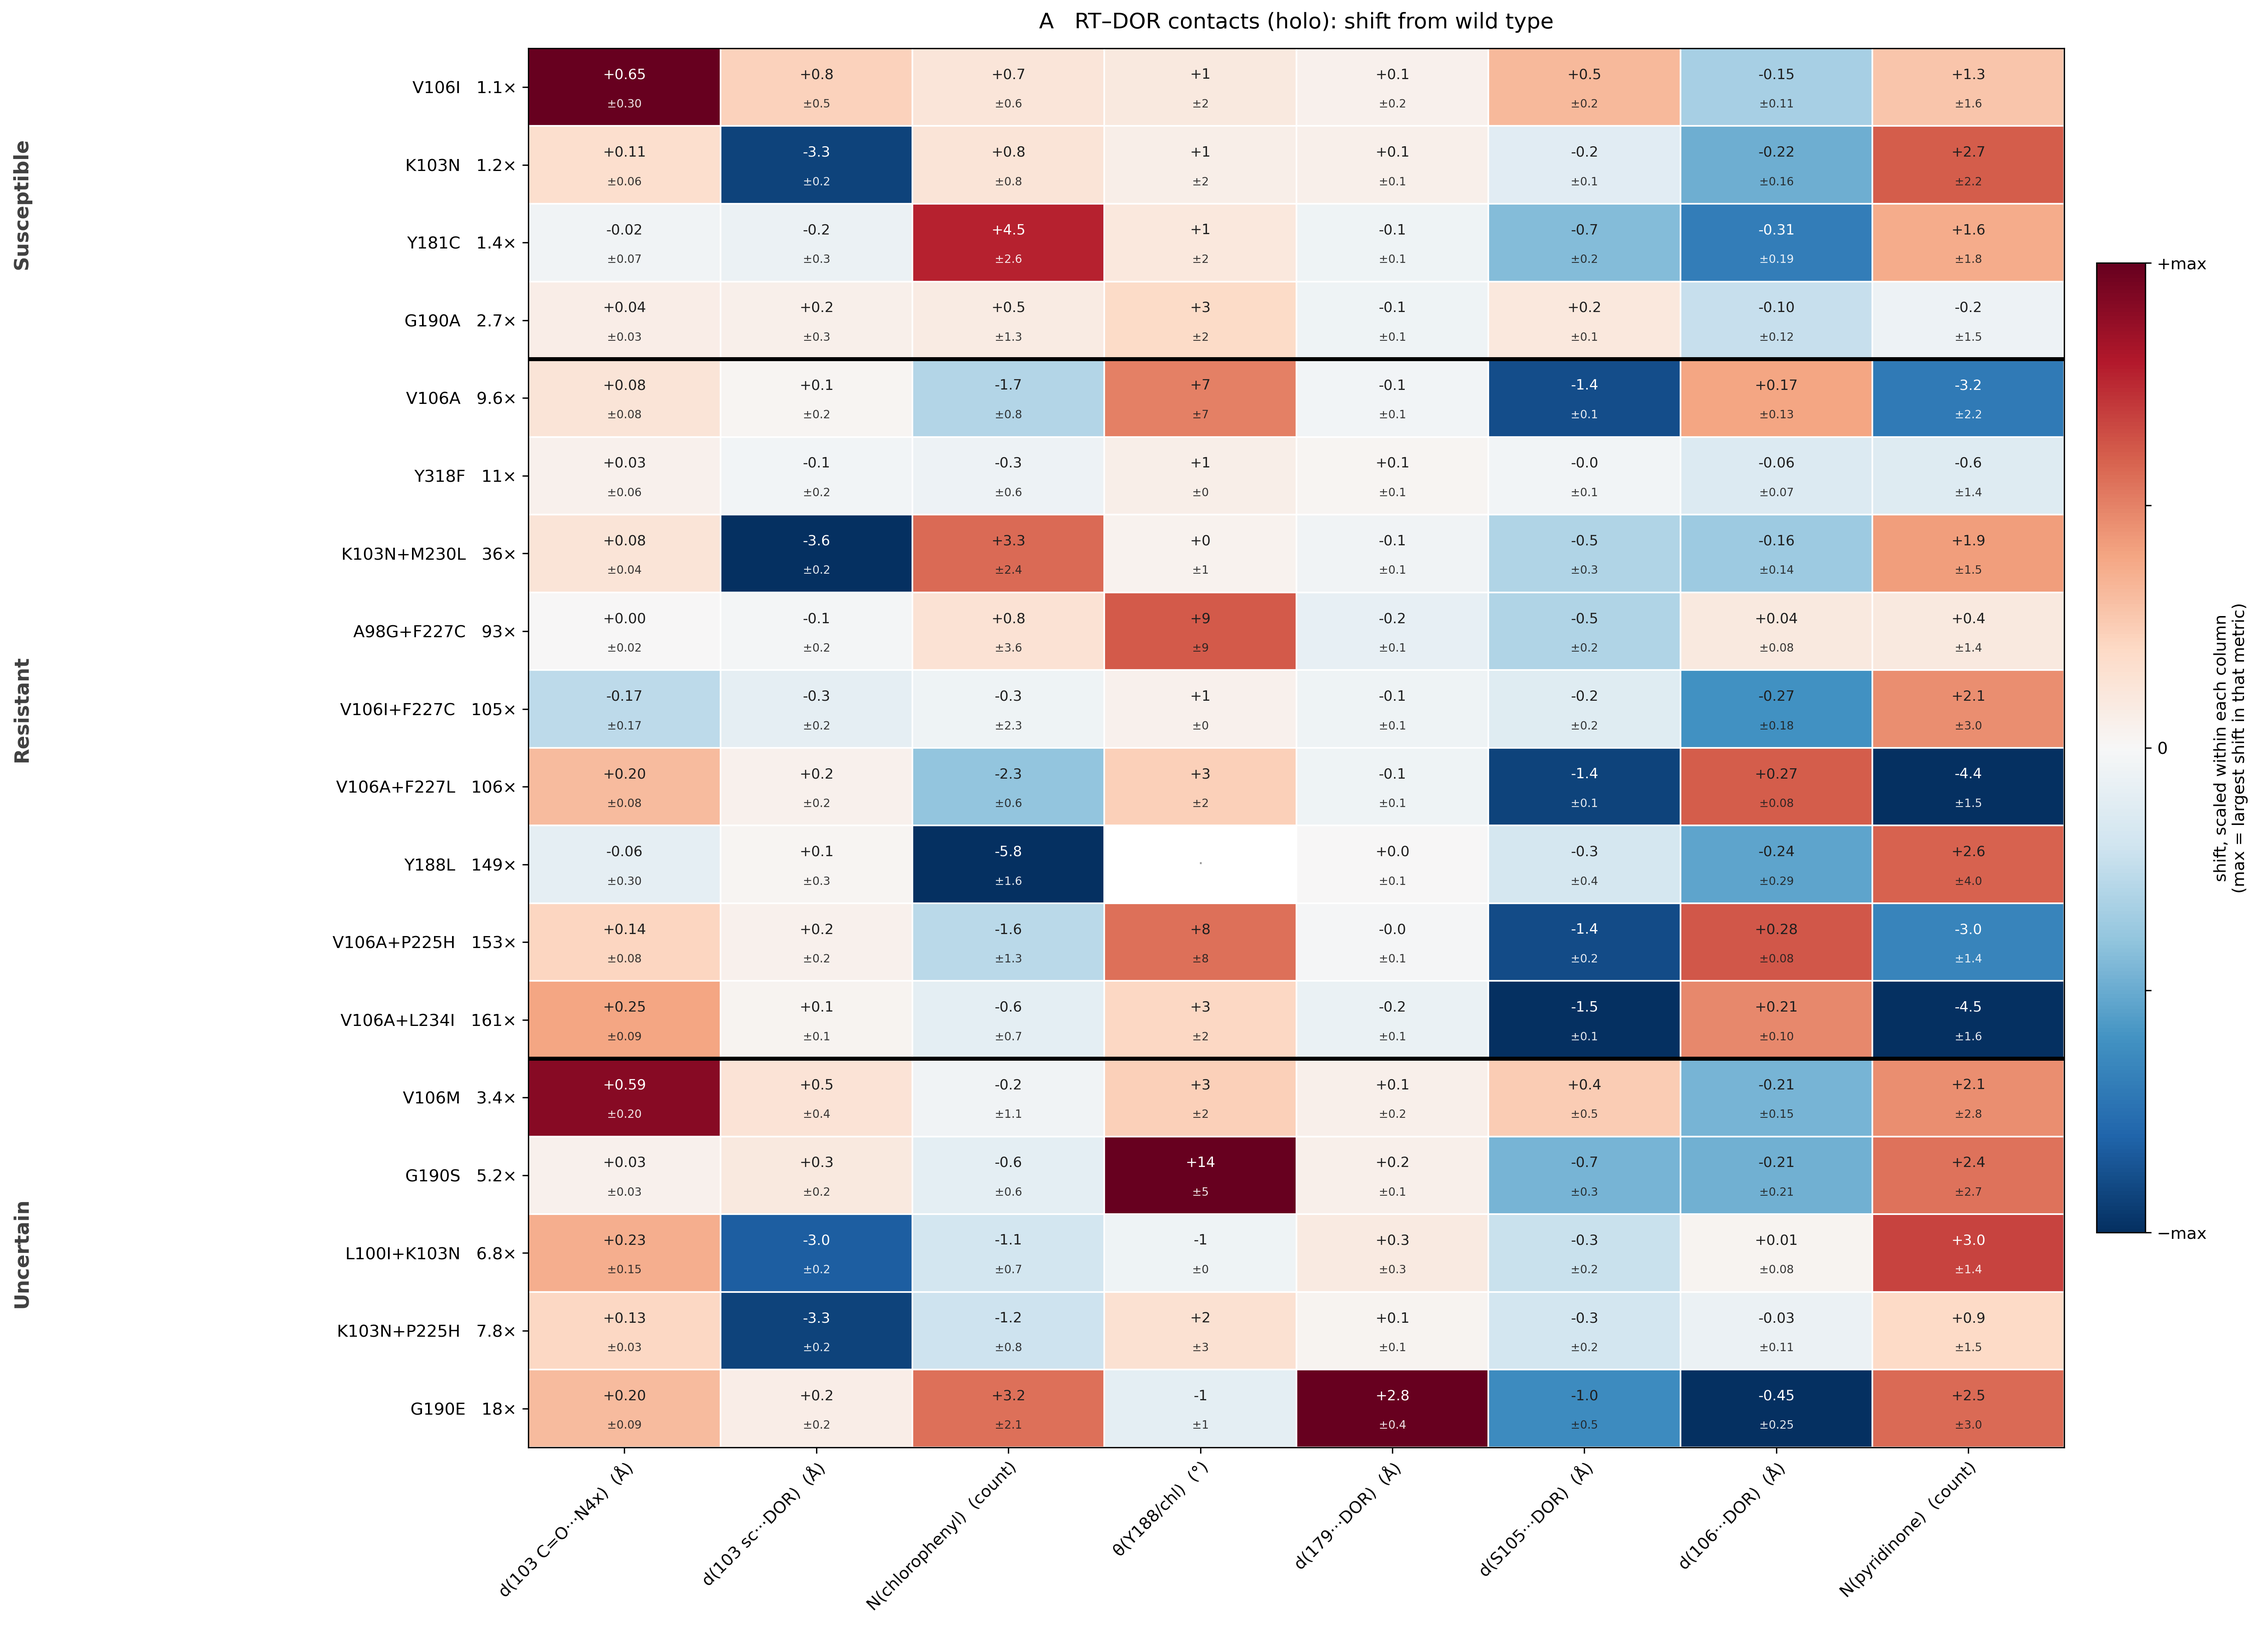
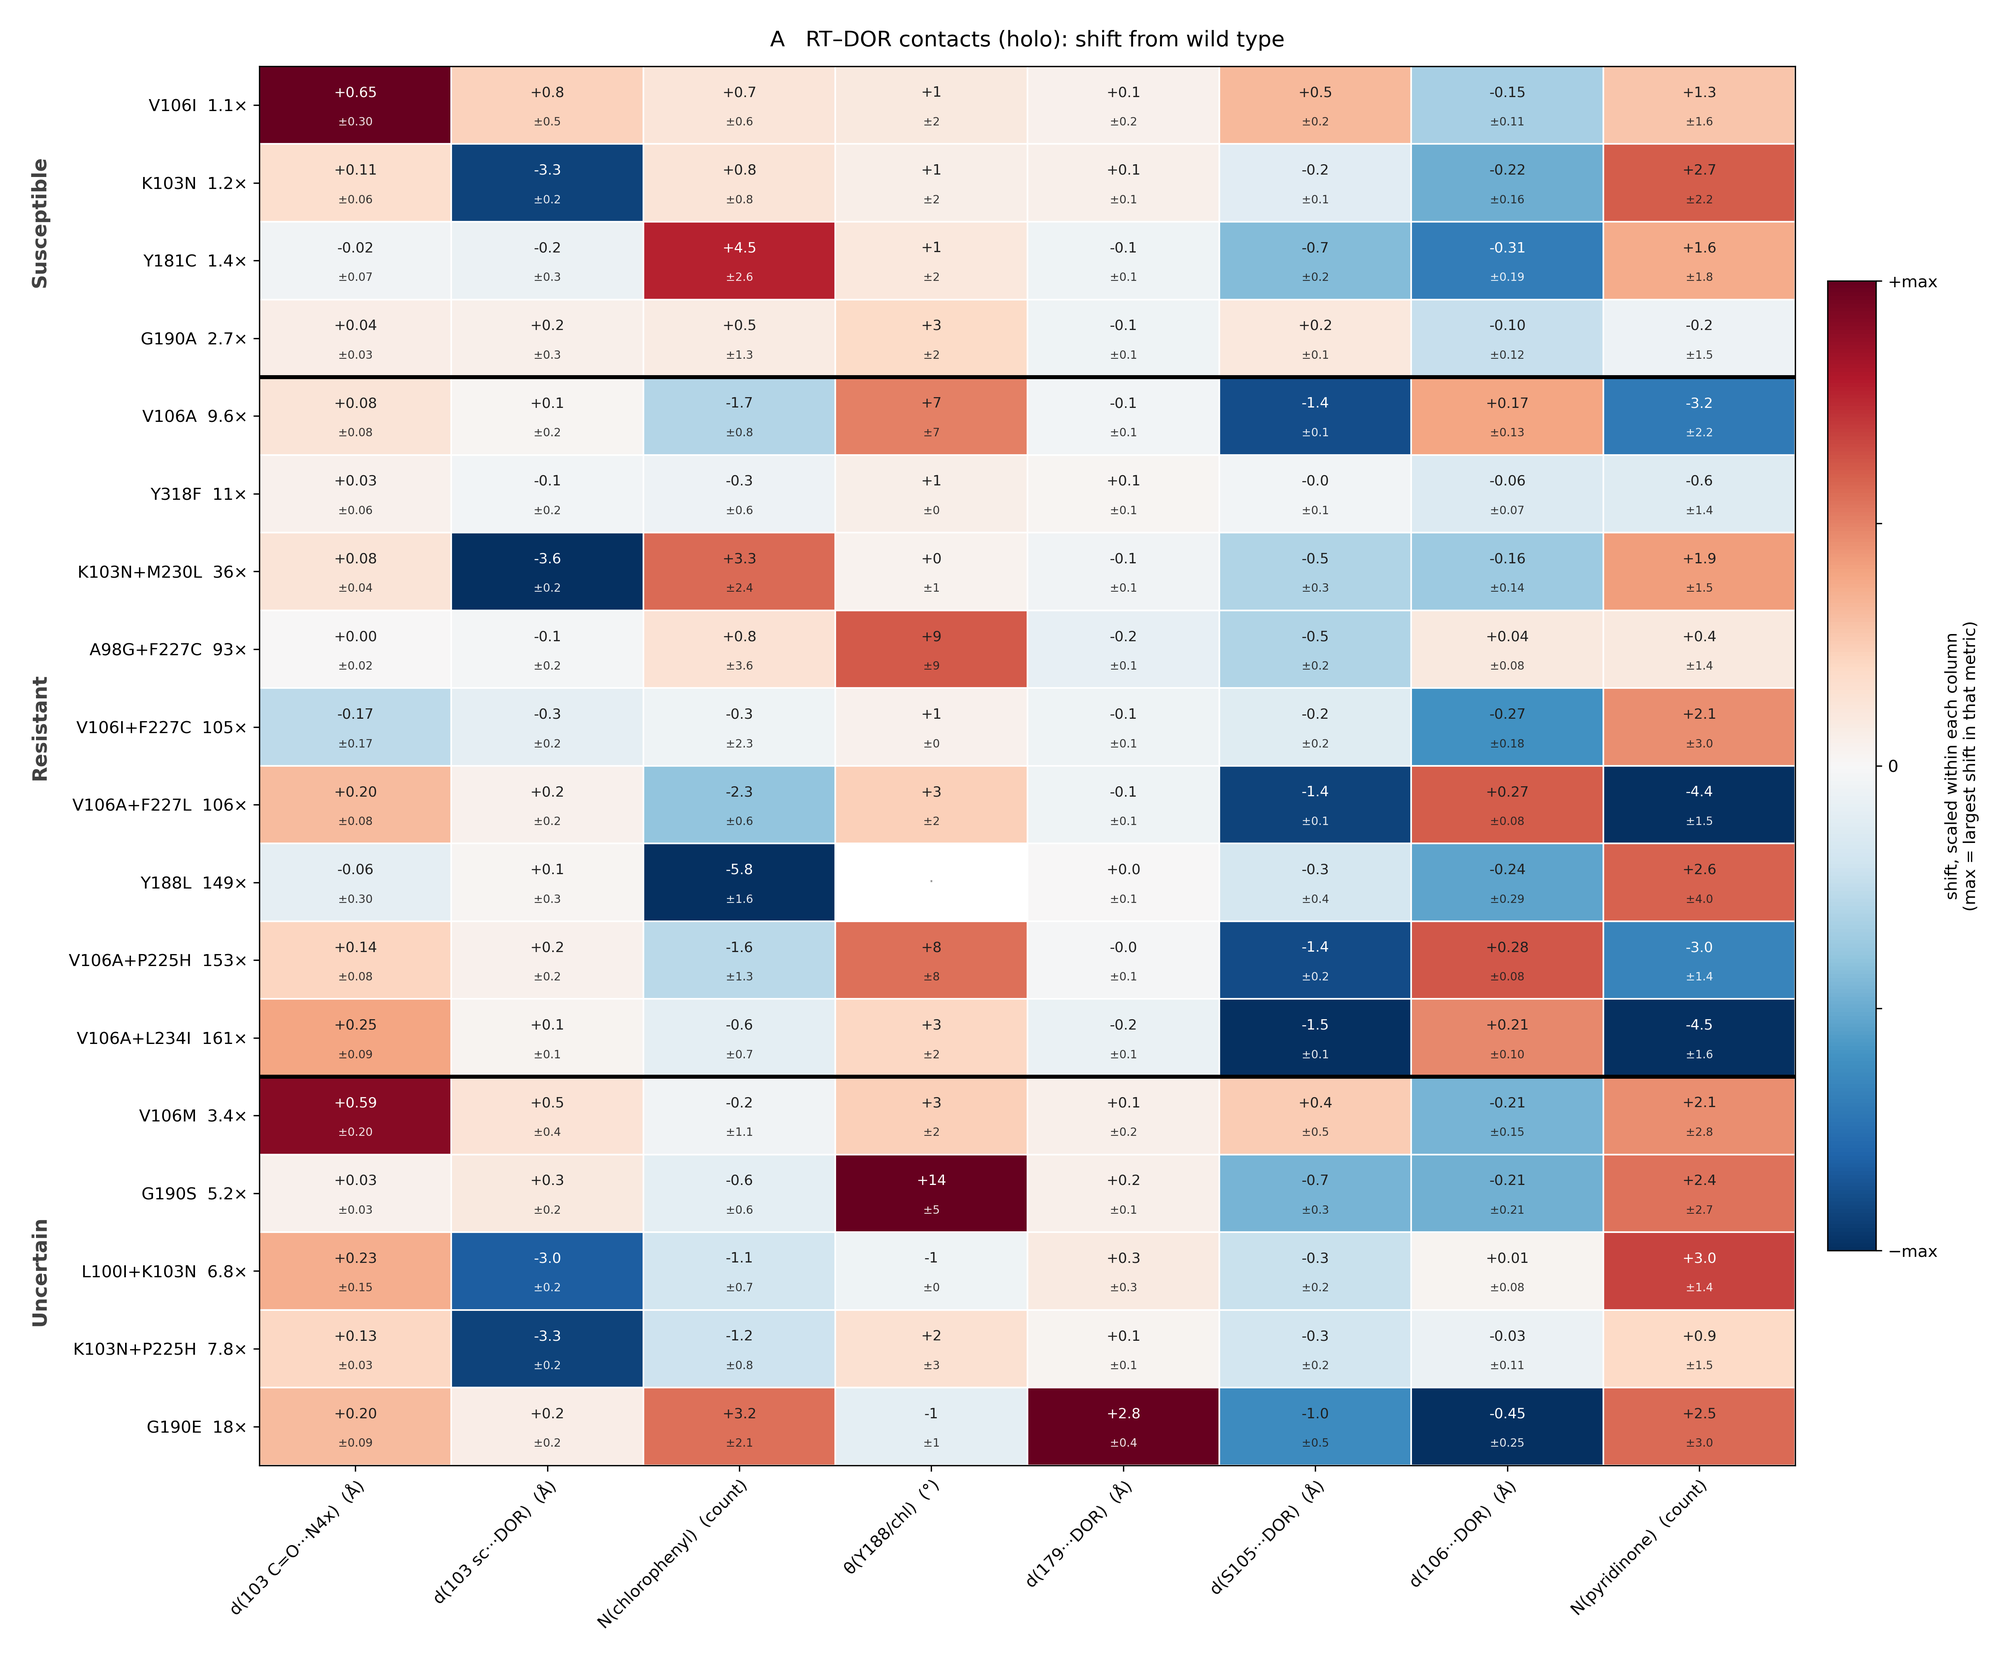
Tighten the y-axis labels against the heatmap
The category labels were offset by a fraction of the axes width, which is
about five inches on a twenty-inch panel and stranded them far out in the
margin. They now sit at a fixed offset in points, so the gap is the same
whatever the figure's width or column count.

The first offset tried was too small and the rotated category text overlapped
the longest tick labels, clipping the leading letter off V106I+F227C and
L100I+K103N. The constant is set from the actual label width (17 characters at
10 pt) with the rotated text's own width allowed for, and says so.

diff --git a/src/nnrti/cli/plot_structural_heatmap.py b/src/nnrti/cli/plot_structural_heatmap.py
@@ -74,6 +74,12 @@ UNITS = {
     "RMSF thumb": "Å", "RMSF connection": "Å", "strand β9–β10": "frac",
 }
 
+#: Points to the left of the axis for the category label. The longest tick
+#: label ("V106I+F227C  105x", 17 characters at 10 pt) runs to about 102 pt, and
+#: the rotated category text is ~12 pt wide about its centre, so anything under
+#: ~115 pt overlaps and clips the first letter off the longest genotypes.
+CATEGORY_LABEL_PAD_PT = 132.0
+
 #: Category order of Table 1 in the manuscript.
 CATEGORY_ORDER = ("Susceptible", "Resistant", "Uncertain")
 
@@ -234,11 +240,10 @@ def main(argv: list[str] | None = None) -> int:
         return (rank, np.nan_to_num(fold.get(g, np.nan), nan=np.inf))
 
     mutants = sorted((g for g in dor_v.index if g != "WT" and g in cat), key=key)
-    labels = [f"{g}   {fold.get(g):g}\u00d7" if np.isfinite(fold.get(g, np.nan))
+    labels = [f"{g}  {fold.get(g):g}\u00d7" if np.isfinite(fold.get(g, np.nan))
               else g for g in mutants]
 
     def rule_and_label(ax, rows):
-        from matplotlib.transforms import blended_transform_factory
         cats = [cat[g] for g in rows]
         for i in range(1, len(cats)):
             if cats[i] != cats[i - 1]:
@@ -246,10 +251,15 @@ def main(argv: list[str] | None = None) -> int:
         seen, start_i = cats[0], 0
         for i in range(1, len(cats) + 1):
             if i == len(cats) or cats[i] != seen:
-                tr = blended_transform_factory(ax.transAxes, ax.transData)
-                ax.text(-0.33, (start_i + i - 1) / 2.0, seen, rotation=90,
-                        ha="center", va="center", fontsize=12, fontweight="bold",
-                        color="0.25", transform=tr, clip_on=False)
+                # Offset in POINTS, not axes fraction: a fraction of the
+                # axes width is ~5 inches on a 20-inch-wide panel, which
+                # stranded these labels far out in the margin.
+                ax.annotate(seen, xy=(0, (start_i + i - 1) / 2.0),
+                            xycoords=("axes fraction", "data"),
+                            xytext=(-CATEGORY_LABEL_PAD_PT, 0),
+                            textcoords="offset points", rotation=90,
+                            ha="center", va="center", fontsize=12,
+                            fontweight="bold", color="0.25", clip_on=False)
                 if i < len(cats):
                     seen, start_i = cats[i], i
 
@@ -283,7 +293,7 @@ def main(argv: list[str] | None = None) -> int:
                      "(max = largest shift in that metric)", fontsize=10)
         cb.ax.tick_params(labelsize=10)
         f = out / "plots" / f"{stem}.png"
-        fig.savefig(f, dpi=300)
+        fig.savefig(f, dpi=300, bbox_inches="tight", pad_inches=0.25)
         plt.close(fig)
         written.append(f)
         v.round(3).to_csv(out / "tables" / f"{tstem}_shift_vs_wt.csv")
